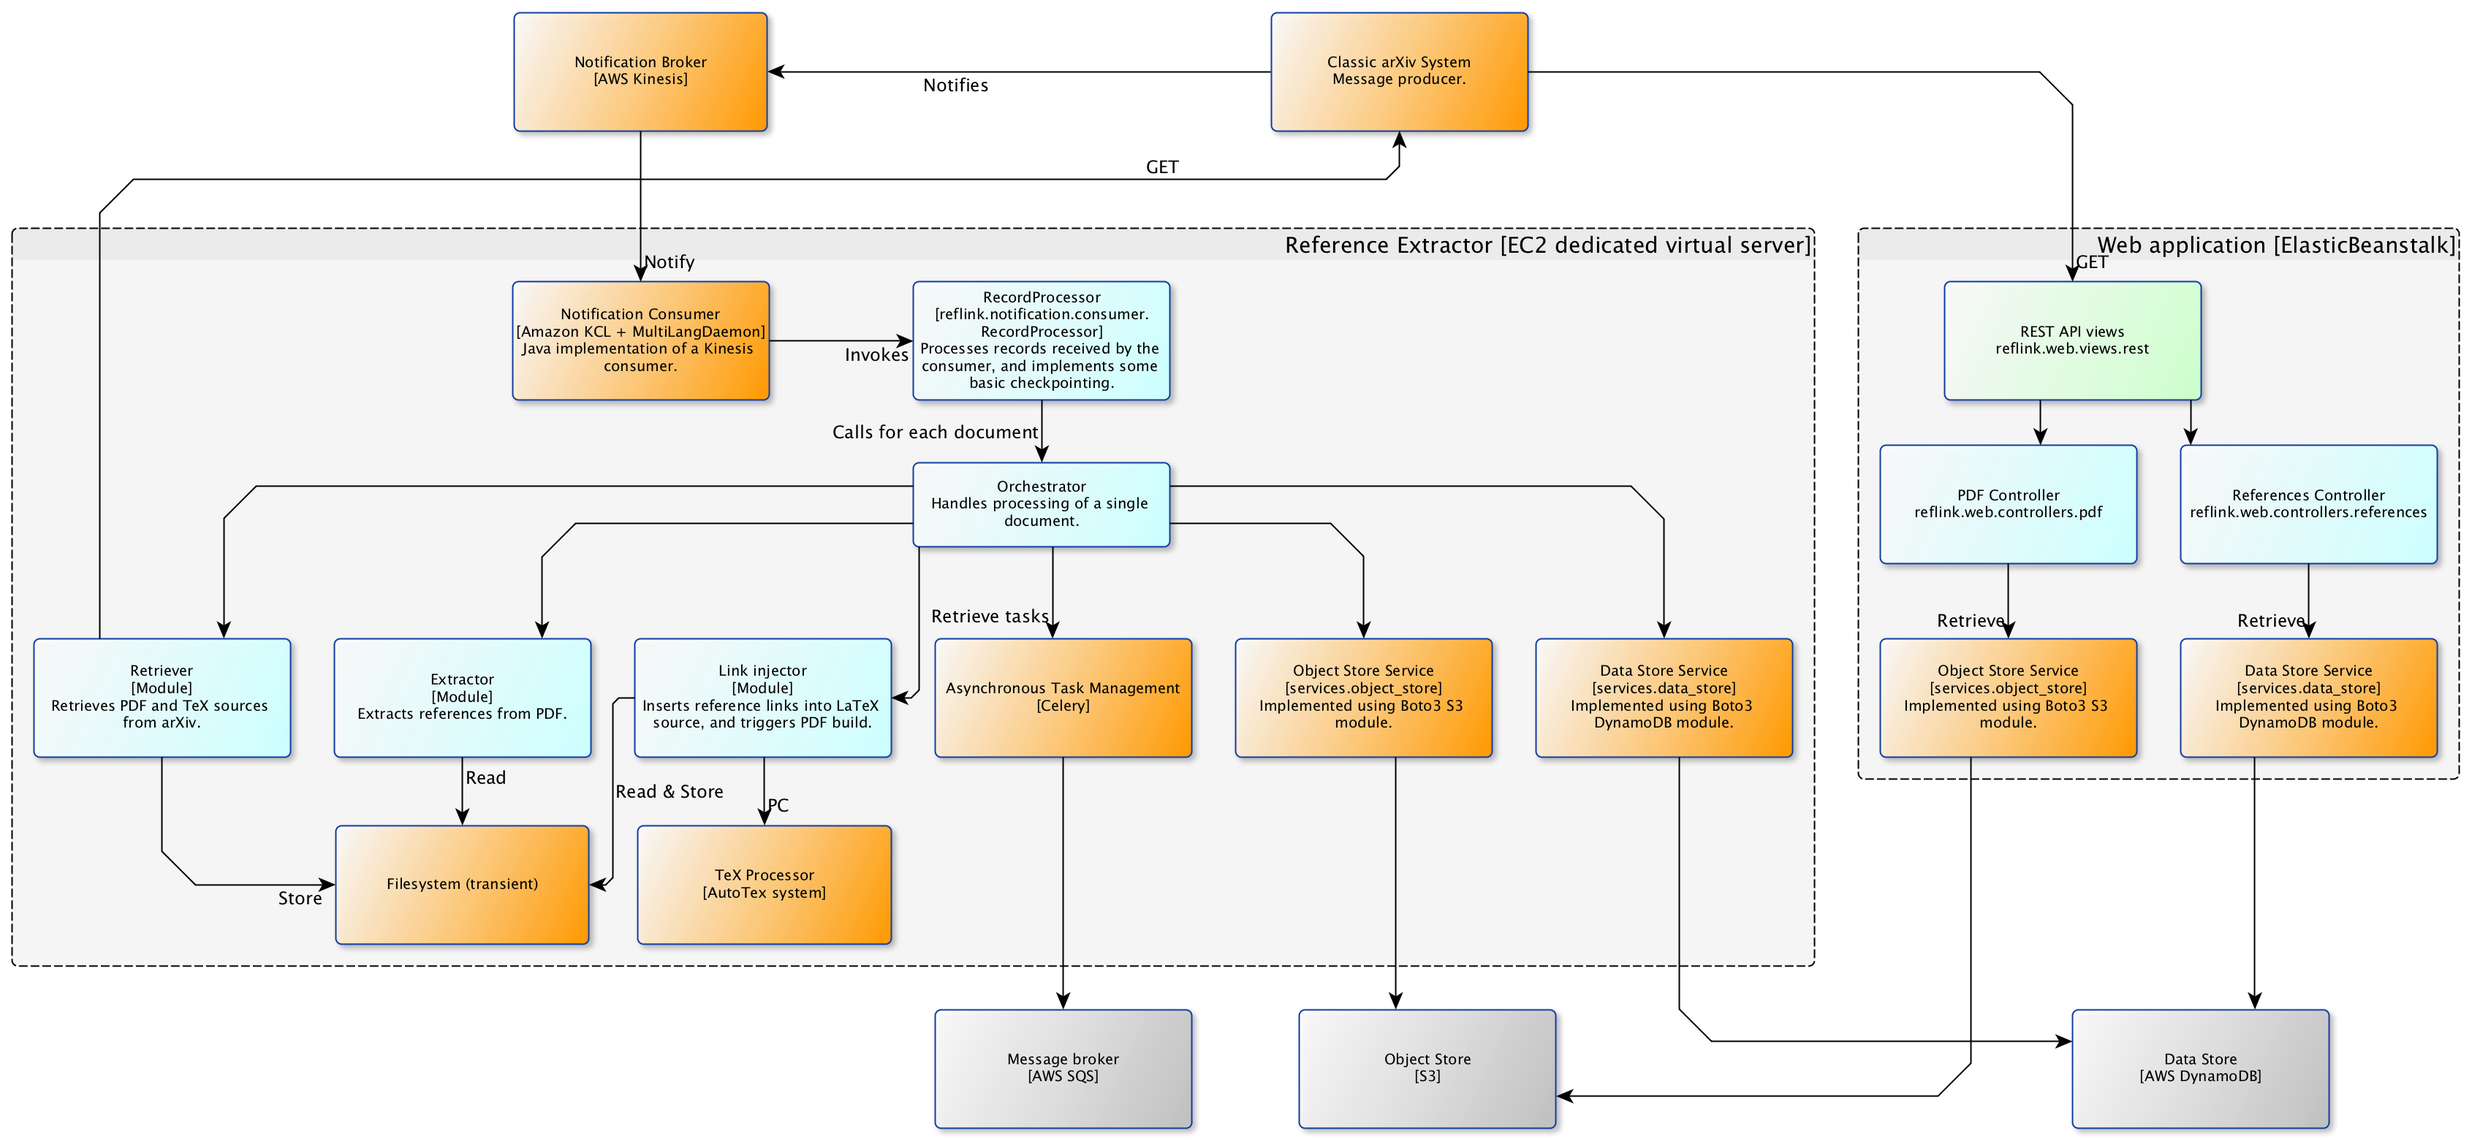
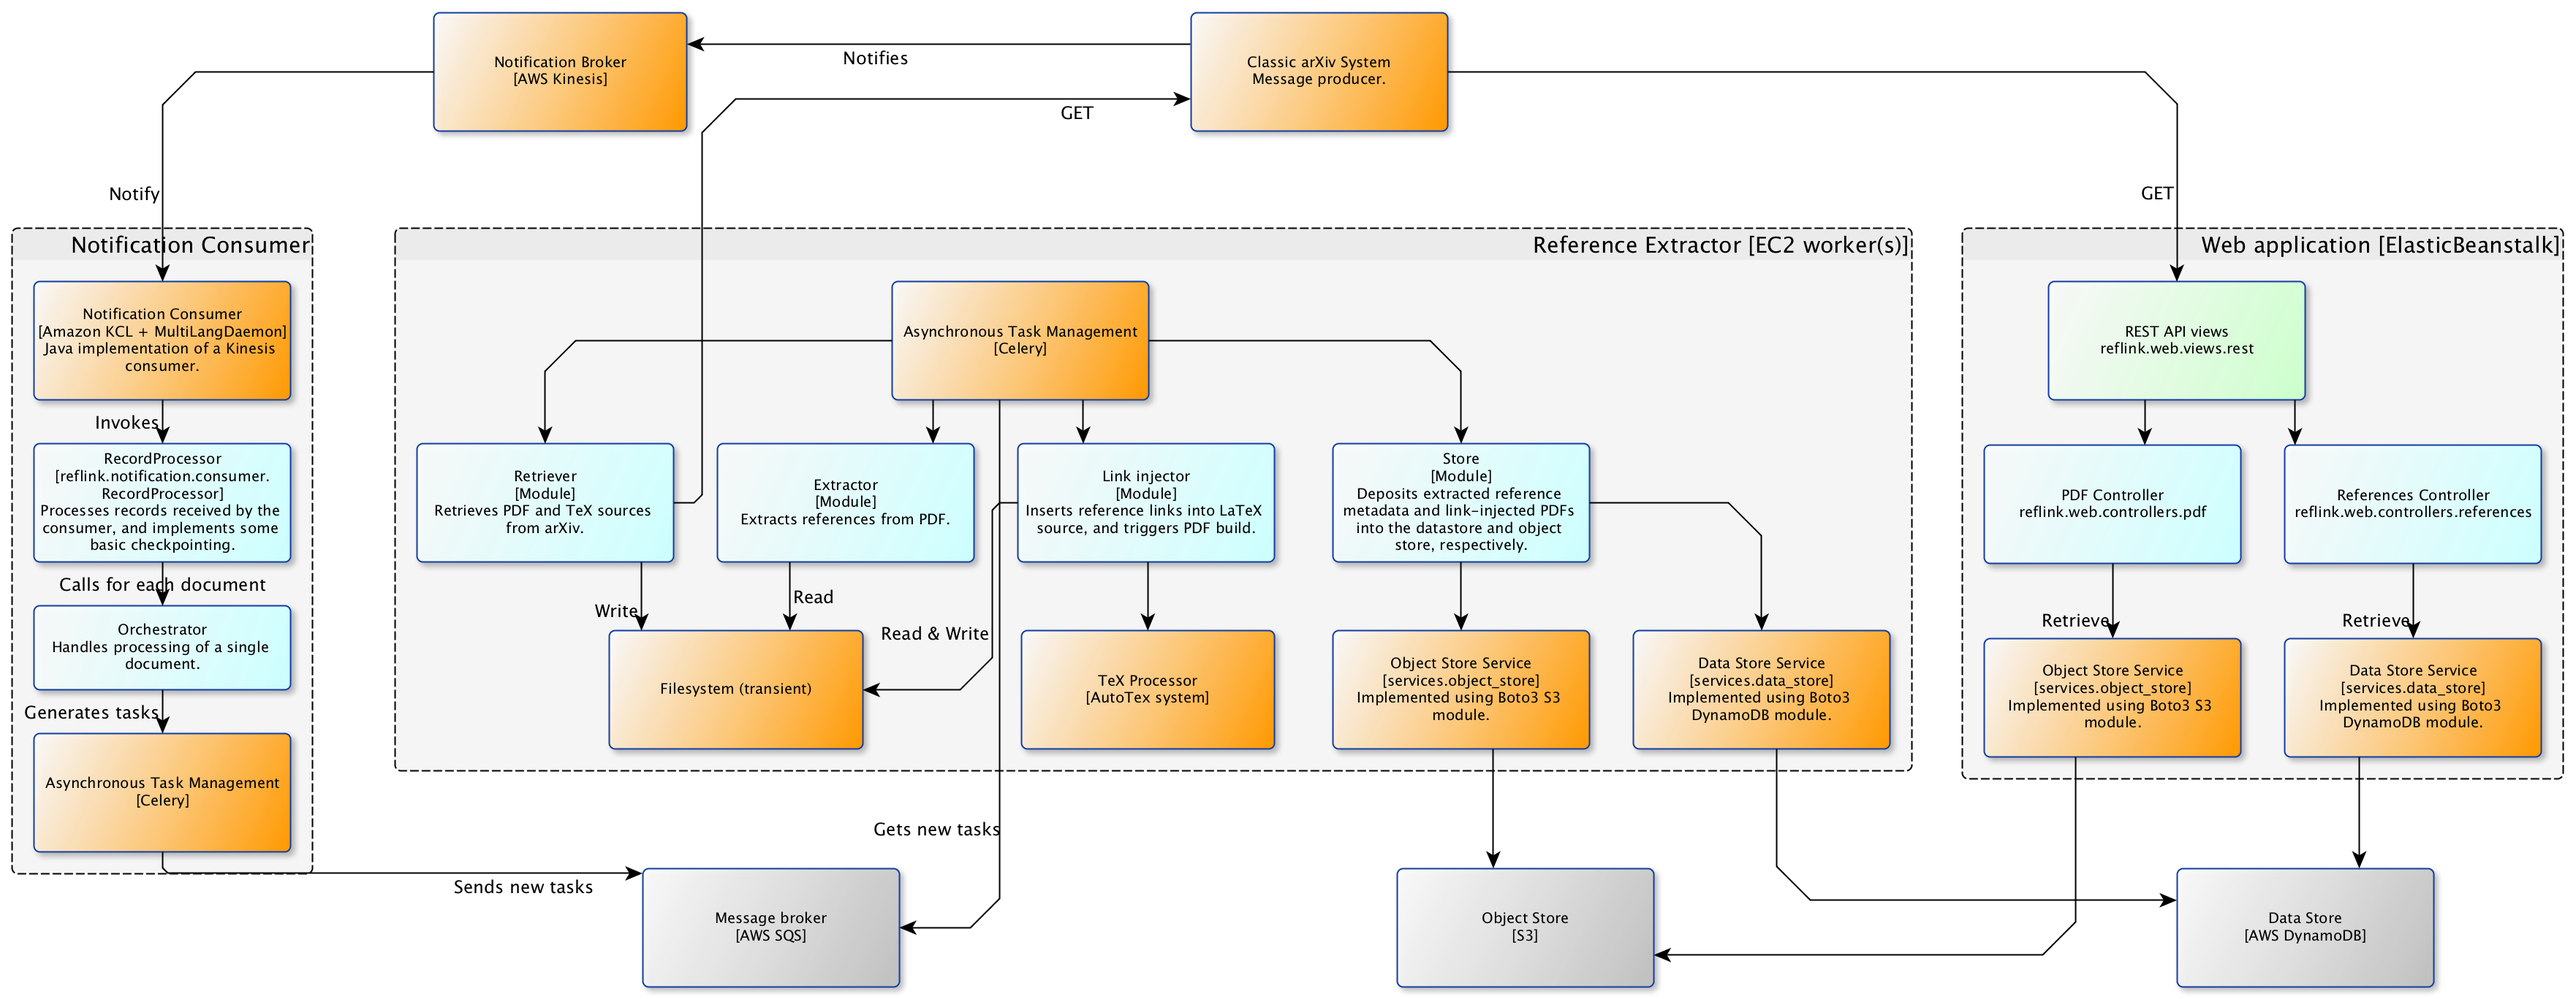
minor revision to the arch docs

diff --git a/docs/source/architecture.rst b/docs/source/architecture.rst
@@ -30,13 +30,24 @@ Since reference extraction is time-consuming (several minutes per document),
 we isolate the reference extraction process from the REST API. The reference
 extraction process is responsible for processing notifications from the
 notification broker, extracting and storing reference metadata, and producing
-link-injected PDFs. This will be deployed on one or more dedicated EC2 virtual
-machines. The REST API is deployed separately as a WSGI web application running
-on ElasticBeanstalk.
+link-injected PDFs. We further isolate the notification consumption role from
+the actually execution of the reference extraction steps. This results in three
+independently deployable containers:
 
-Those two containers have access to a shared object store (S3) and a shared
-data store (DynamoDB). The REST API will only *read* from those object stores,
-and the reference extraction process will only *write* to those object stores.
+1. The notification consumer, which receives notifications from the broker and
+   generates processing tasks. This will be deployed on a dedicated EC2 virtual
+   machine.
+2. The reference extraction worker, which executes processing tasks and stores
+   the results. This will be deployed on one or more dedicated EC2 virtual
+   machines.
+3. The REST API, which responds to client requests for reference metadata and
+   link-injected PDFs. This is deployed as a WSGI web application running
+   on ElasticBeanstalk.
+
+Those second two containers have access to a shared object store (S3) and a
+shared data store (DynamoDB). The REST API will only *read* from those object
+stores, and the reference extraction process will only *write* to those object
+stores.
 
 .. image:: static/images/containers.png
 
@@ -45,12 +56,8 @@ Components
 
 .. image:: static/images/components.png
 
-Reference extraction
-````````````````````
-The reference extraction process is comprised of two main macro-components: a
-notification-handling process that listens for new publications, and an
-asynchronous task pipeline for processing individual documents.
-
+Notification Consumer
+`````````````````````
 Notification handling is provided by two components: a notification consumer
 provided by Amazon, implemented using the Java-based Kinesis Consumer
 Library, and a record processor component implemented in Python that
@@ -64,12 +71,21 @@ details.
 The entry point to the processing pipeline is the orchestrate component, which
 generates a series of tasks (more or less in series) for each arXiv publication.
 See :mod:`reflink.process.orchestrate` for details. Those tasks -- retrieve,
-extract, link inject -- are executed asynchronously. See
+extract, link inject -- are executed asynchronously. Asynchronous task
+management is performed by Celery, which relies on an external message broker.
+The orchestrate component is aware of the processing tasks, and requests
+(to Celery) their execution in a particular order. The Celery instance running
+in this container passes those requested tasks to the reference extraction
+container (worker processes) via a messaging broker (such as SQS) for
+execution.
+
+Reference extraction
+````````````````````
+A Celery instance running on the reference extraction (worker) container
+listens for new task requests coming through the messaging broker (e.g. SQS),
+and coordinates the execution of those tasks. See
 :mod:`reflink.process.retrieve`\, :mod:`reflink.process.extract`\, and
-:mod:`reflink.process.inject`\. Asynchronous task management is performed by
-Celery, which relies on an external message broker. The orchestrate component
-is also responsible for storing the extracted references and link-injected PDF.
-See :mod:`reflink.process.store`\.
+:mod:`reflink.process.inject`\. See :mod:`reflink.process.store`\.
 
 Access to the data store (for reference metadata) and object store (for link
 injected PDFs) are provided by corresponding service components that expose a
